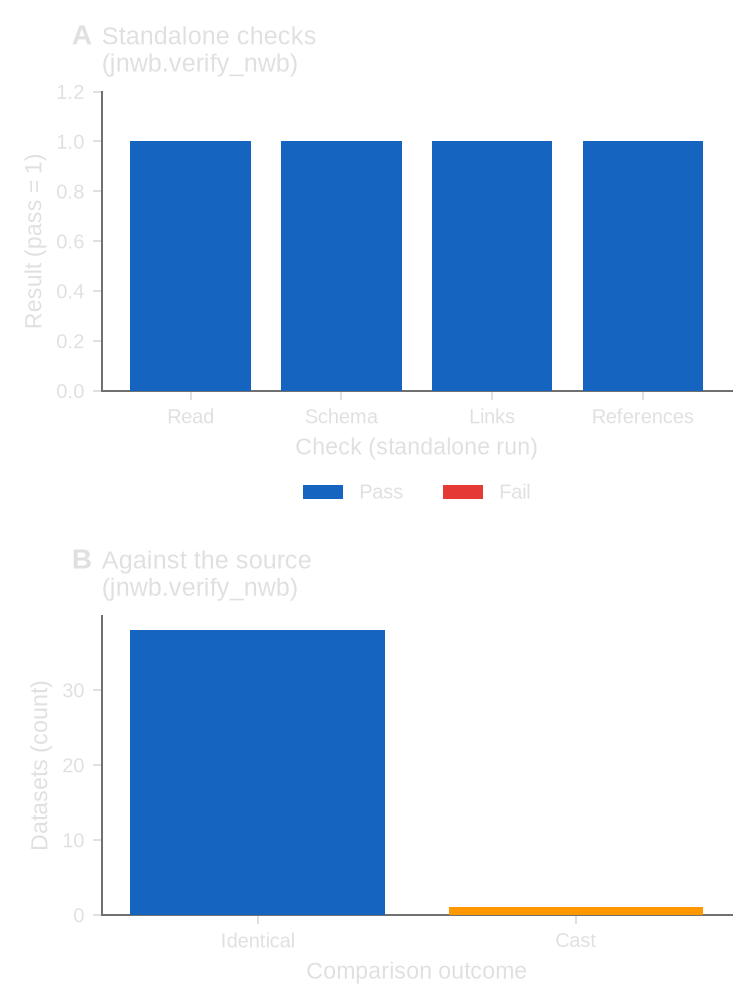
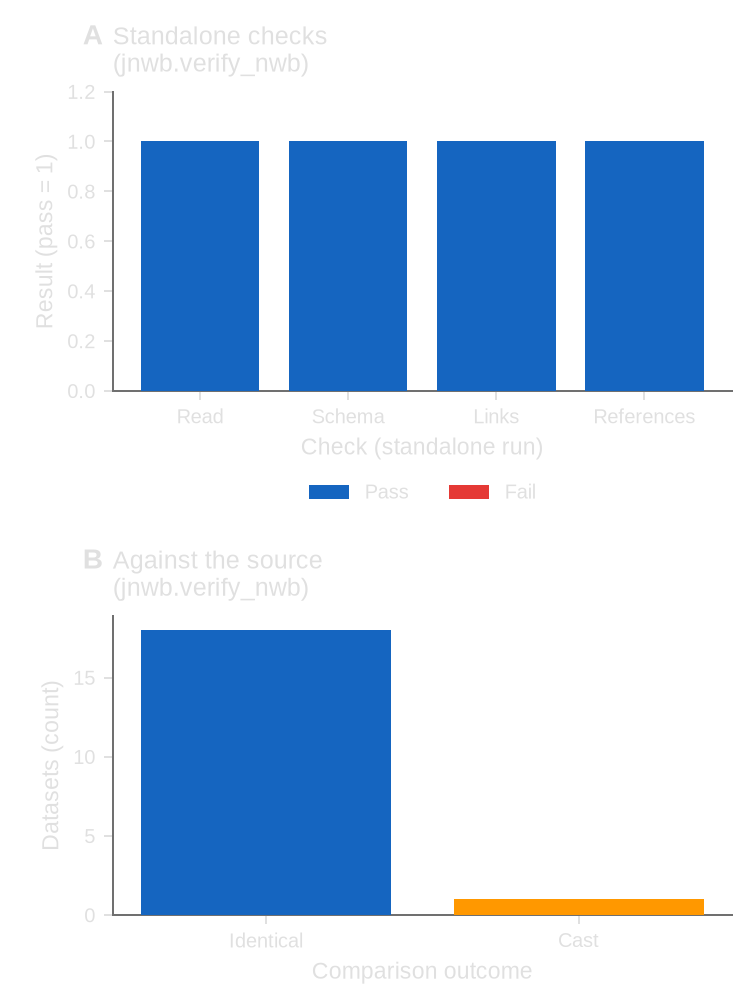
fig37 counts the datasets the fixture wrote, not pynwb's embedded schema copies
The panel B bar read 38 under pynwb 3.1.3 and 39 under 4.2.0 because the
embedded /specifications datasets change by release; every CI test leg failed on it.
Regenerated with Matplotlib 3.11.2 and Liberation Sans 2.1.5; the comparison passes
under pynwb 4.2.0 and hdmf 6.2.0.

diff --git a/docs/generate_figures.py b/docs/generate_figures.py
@@ -2429,8 +2429,11 @@ def fig37_verify_written_nwb():
         "fig37 needs a copy that passes on its own"
     assert against.ok, "fig37 needs a recast the declared cast explains"
     cast = [c for c in against.checks if "cast of the source" in c.name]
+    # pynwb embeds its schema under /specifications, and the release decides how many of those
+    # datasets exist, so the count is of the datasets the fixture wrote.
     identical = [c for c in against.checks
-                 if "matches the source as declared" in c.name and c.ok]
+                 if "matches the source as declared" in c.name and c.ok
+                 and not c.name.startswith("/specifications/")]
     assert len(cast) == 1 and identical, \
         "fig37 needs one declared cast beside byte-identical datasets"
     passed = [int(c.ok) for c in standalone.checks]
